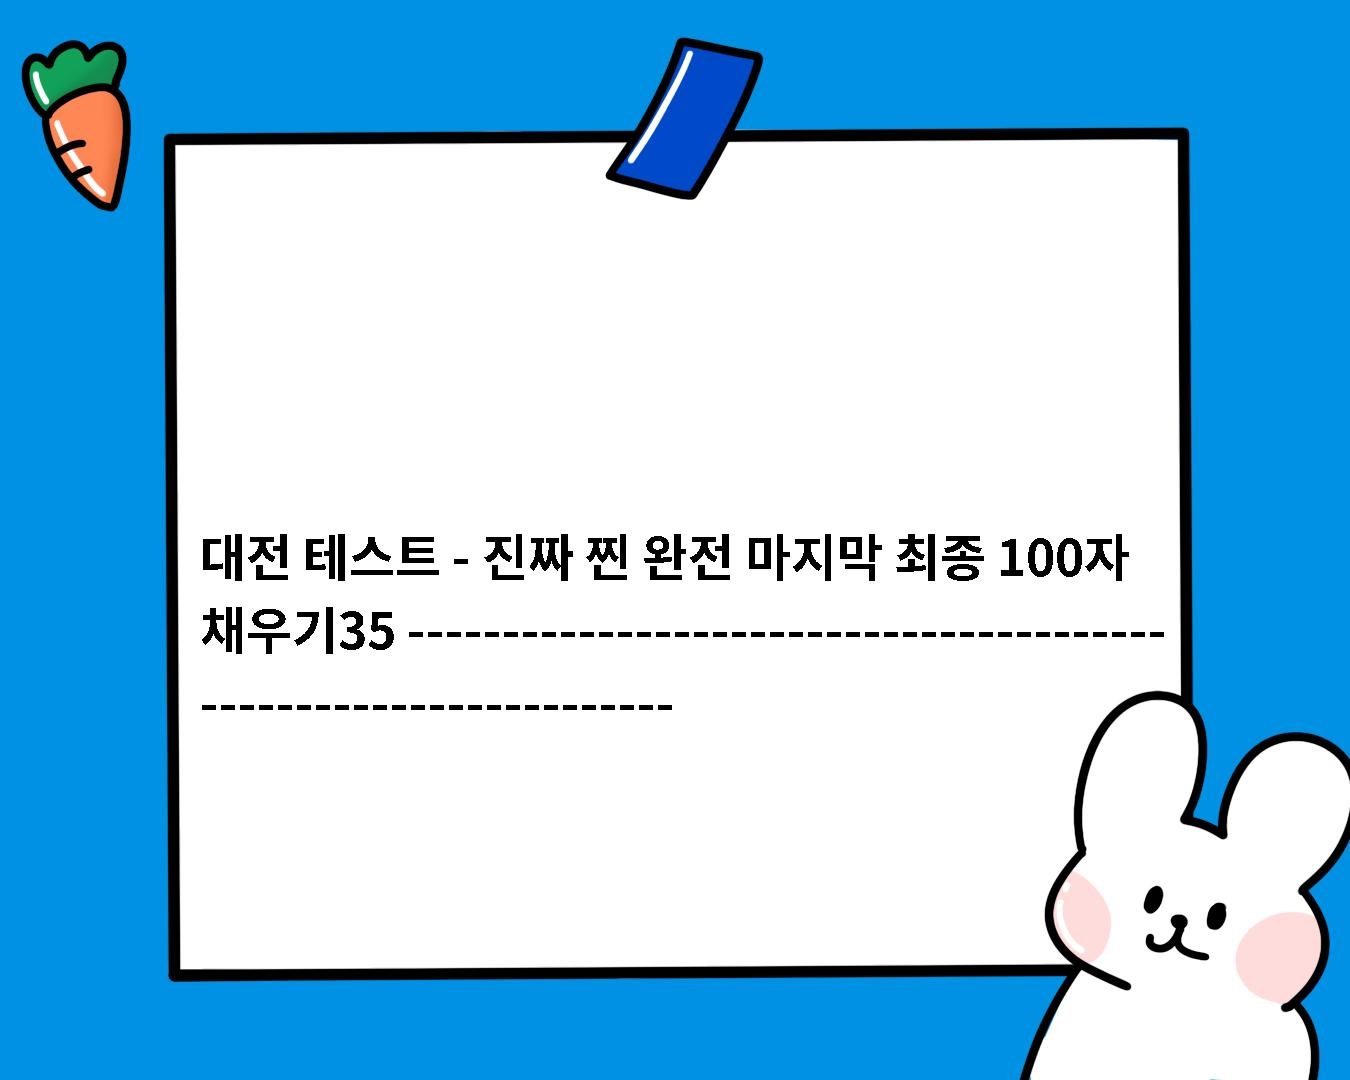
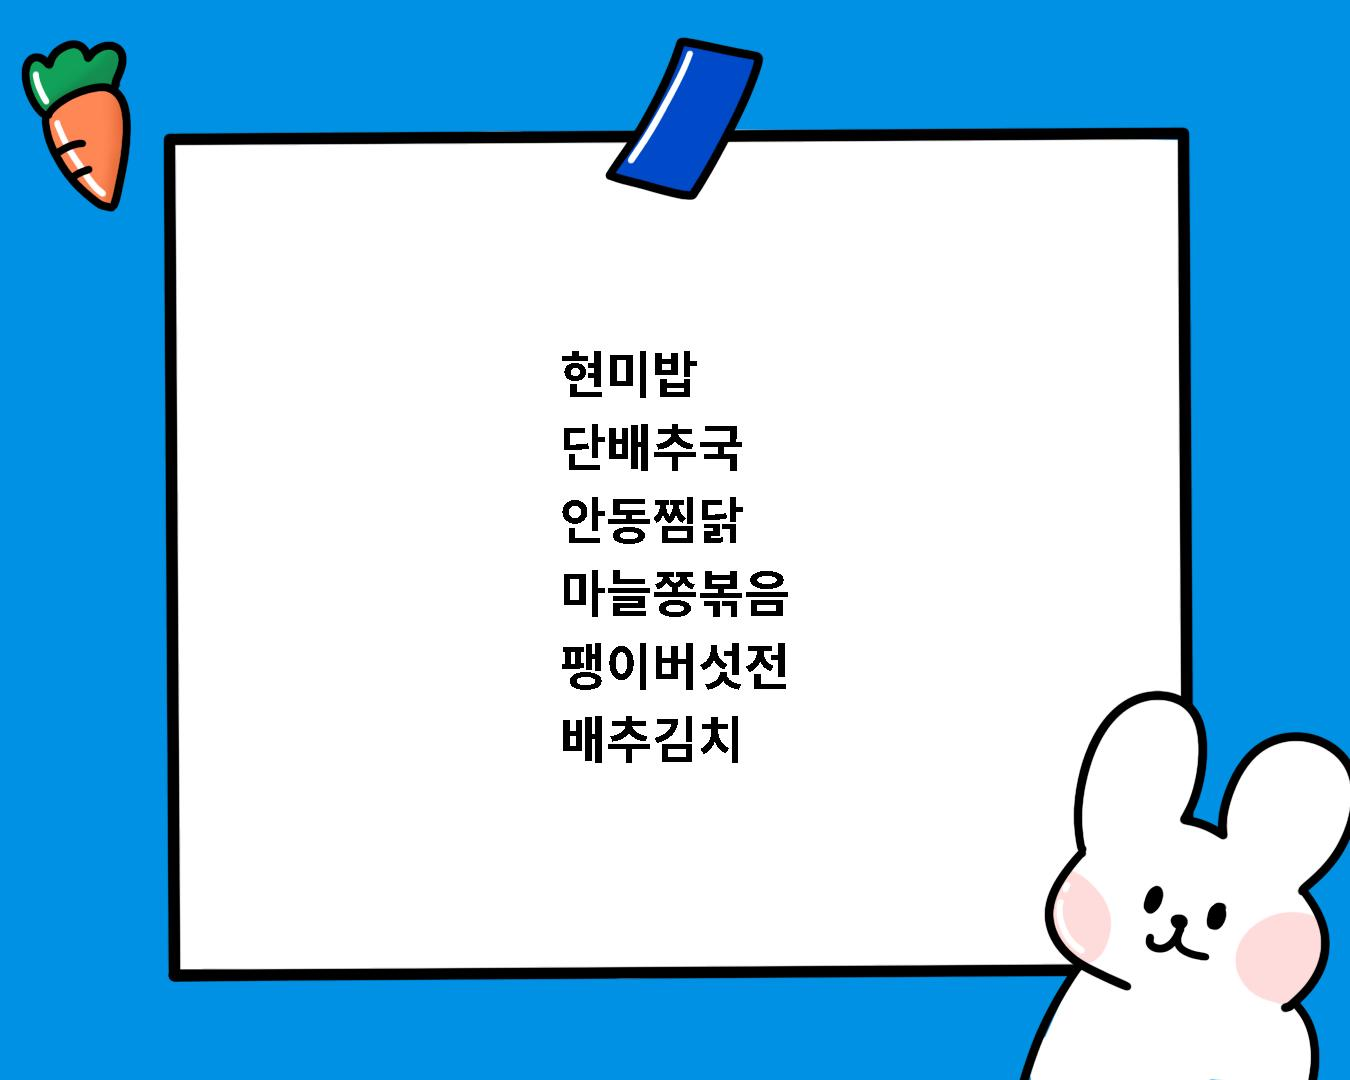
update: 중앙 정렬

Changed region(s): [[0.1244, 0.4583, 0.84, 0.7028], [0.4044, 0.3056, 0.5289, 0.3667], [0.4044, 0.3972, 0.56, 0.4278]]

diff --git a/src/main/java/com/pcs/daejeon/common/InstagramUtil.java b/src/main/java/com/pcs/daejeon/common/InstagramUtil.java
@@ -54,7 +54,7 @@ public class InstagramUtil {
     public void convertPngToJpg(boolean isMealUpload) {
         try {
             File inputFile = new File(isMealUpload ?
-                    System.getProperty("user.dir") + "/src/mealTemplate.png" :
+                    System.getProperty("user.dir") + "/src/mealImage.png" :
                     System.getProperty("user.dir")+"/src/textImage.png");
             BufferedImage inputImage = ImageIO.read(inputFile);
 
@@ -76,7 +76,7 @@ public class InstagramUtil {
     public void mealUploadCaption(Object[] lines) {
         String[] meal = Arrays.stream(lines).map(Object::toString).toArray(String[]::new);
 
-        imageCaption("",  meal);
+        imageCaption(null,  meal);
         convertPngToJpg(true);
     }
 
@@ -87,9 +87,7 @@ public class InstagramUtil {
 
     private void imageCaption(String description, String[] meals) {
         try {
-            String imagePath = meals != null ?
-                    System.getProperty("user.dir") + "/src/mealTemplate.png" :
-                    System.getProperty("user.dir") + "/src/template.png";
+            String imagePath = System.getProperty("user.dir") + "/src/template.png";
 
             BufferedImage image = ImageIO.read(new File(imagePath));
 
@@ -103,18 +101,26 @@ public class InstagramUtil {
             // get the dimensions of the image and caption text
             int imageWidth = image.getWidth();
             int imageHeight = image.getHeight();
-            int captionMaxWidth = imageWidth - 400;
-            int captionHeight = g2d.getFontMetrics(font).getHeight();
+            FontMetrics fm = g2d.getFontMetrics(font);
 
-            String[] lines = null;
+            String[] lines;
 
-            if (meals != null) {
-                lines = splitTextIntoLines(description, font, captionMaxWidth);
+            if (meals == null) {
+                lines = splitTextIntoLines(description, font, imageWidth - 400);
+            } else {
+                lines = meals;
+            }
+
+            int maxWidth = 0;
+
+            for (String line : lines) {
+                if (maxWidth < fm.stringWidth(line)) maxWidth = fm.stringWidth(line);
             }
 
             // calculate the position to draw the caption in the center of the image
-            int x = (imageWidth - captionMaxWidth) / 2;
-            int y = (imageHeight + captionHeight) / 2;
+            int x = (imageWidth - maxWidth) / 2;
+            int captionHeight = g2d.getFontMetrics(font).getHeight();
+            int y = ((imageHeight - fm.getHeight()) / 3) + fm.getAscent();
 
             // draw the caption on the image
             g2d.setFont(font);
@@ -122,8 +128,9 @@ public class InstagramUtil {
 
             g2d.setFont(font);
             g2d.setColor(color);
-            for (int i = 0; i < (lines != null ? lines.length : meals.length); i++) {
-                g2d.drawString(lines != null ? lines[i] : meals[i], x, y + (i * captionHeight));
+
+            for (int i = 0; i < lines.length; i++) {
+                g2d.drawString(lines[i], x, y + (i * captionHeight));
             }
 
             // dispose of the graphics context
@@ -131,7 +138,7 @@ public class InstagramUtil {
 
             // save the image with the caption
             String newImagePath = meals != null ?
-                    System.getProperty("user.dir") + "/src/mealTemplate.png" :
+                    System.getProperty("user.dir") + "/src/mealImage.png" :
                     System.getProperty("user.dir") + "/src/textImage.png";
             ImageIO.write(image, "png", new File(newImagePath));
         } catch (Exception ex) {

diff --git a/src/main/java/com/pcs/daejeon/controller/SchoolController.java b/src/main/java/com/pcs/daejeon/controller/SchoolController.java
@@ -8,6 +8,7 @@ import com.pcs.daejeon.dto.school.InstaInfoUpdateDto;
 import com.pcs.daejeon.dto.school.MealDto;
 import com.pcs.daejeon.dto.school.SchoolInfoDto;
 import com.pcs.daejeon.entity.School;
+import com.pcs.daejeon.repository.SchoolRepository;
 import com.pcs.daejeon.service.SchoolService;
 import lombok.RequiredArgsConstructor;
 import lombok.extern.slf4j.Slf4j;
@@ -24,6 +25,7 @@ import java.util.List;
 public class SchoolController {
 
     private final SchoolService schoolService;
+    private final SchoolRepository schoolRepository;
     private final Util util;
 
     @PostMapping("/school/meal")
